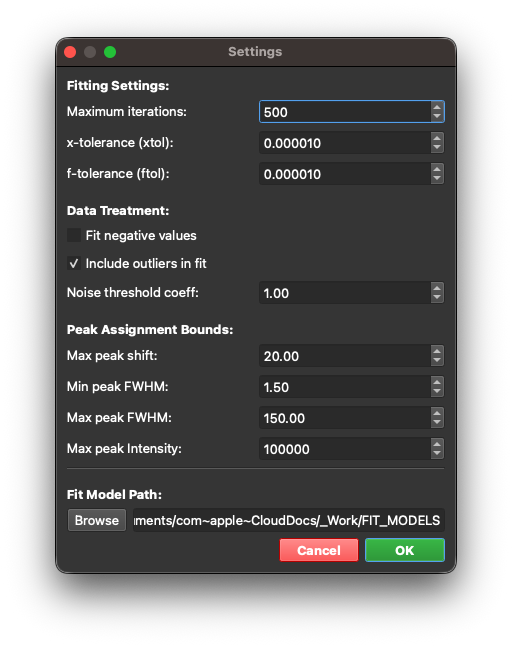
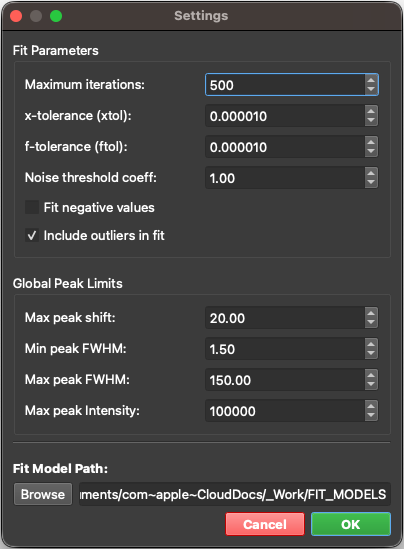
Deployed 440b6f7 with MkDocs version: 1.6.1

diff --git a/user_manual/settings/index.html b/user_manual/settings/index.html
@@ -779,6 +779,45 @@
     </span>
   </a>
   
+    <nav class="md-nav" aria-label="Settings &amp; Preferences">
+      <ul class="md-nav__list">
+        
+          <li class="md-nav__item">
+  <a href="#fit-parameters" class="md-nav__link">
+    <span class="md-ellipsis">
+      
+        Fit Parameters
+      
+    </span>
+  </a>
+  
+</li>
+        
+          <li class="md-nav__item">
+  <a href="#global-peak-limits" class="md-nav__link">
+    <span class="md-ellipsis">
+      
+        Global Peak Limits
+      
+    </span>
+  </a>
+  
+</li>
+        
+          <li class="md-nav__item">
+  <a href="#fit-model-path" class="md-nav__link">
+    <span class="md-ellipsis">
+      
+        Fit Model Path
+      
+    </span>
+  </a>
+  
+</li>
+        
+      </ul>
+    </nav>
+  
 </li>
       
     </ul>
@@ -1142,6 +1181,45 @@
     </span>
   </a>
   
+    <nav class="md-nav" aria-label="Settings &amp; Preferences">
+      <ul class="md-nav__list">
+        
+          <li class="md-nav__item">
+  <a href="#fit-parameters" class="md-nav__link">
+    <span class="md-ellipsis">
+      
+        Fit Parameters
+      
+    </span>
+  </a>
+  
+</li>
+        
+          <li class="md-nav__item">
+  <a href="#global-peak-limits" class="md-nav__link">
+    <span class="md-ellipsis">
+      
+        Global Peak Limits
+      
+    </span>
+  </a>
+  
+</li>
+        
+          <li class="md-nav__item">
+  <a href="#fit-model-path" class="md-nav__link">
+    <span class="md-ellipsis">
+      
+        Fit Model Path
+      
+    </span>
+  </a>
+  
+</li>
+        
+      </ul>
+    </nav>
+  
 </li>
       
     </ul>
@@ -1167,23 +1245,117 @@
   <h1>Settings</h1>
 
 <h2 id="settings-preferences">Settings &amp; Preferences<a class="headerlink" href="#settings-preferences" title="Permanent link">&para;</a></h2>
-<p>You can customize the core behavior of the SPECTROview application by accessing the <strong>Settings</strong> menu via the gear icon in the main toolbar.</p>
+<p>Accessing the <strong>Settings</strong> menu via the gear icon in the main toolbar.</p>
 <div align="center">
-  <img src="../../user_manual_images/Settings/settings.png" alt="Tooltips demonstration" width="420"><br>
+  <img src="../../user_manual_images/settings/settings.png" alt="Settings Panel" width="420"><br>
 </div>
 
 <p><br></p>
-<ul>
-<li>
-<p><strong>Fit Parameters</strong>: Granular control over the mathematical optimization algorithms. You can precisely adjust tolerances (<code>xtol</code>, <code>ftol</code>), cap the maximum number of iterations (<code>max_ite</code>), and define the noise coefficient limit (<code>coef_noise</code>).</p>
-</li>
-<li>
-<p><strong>Global Peak Limits</strong>: Set absolute global boundary conditions for all fitted peaks across the software, including the absolute Minimum FWHM, Maximum FWHM, and Maximum Peak Shift allowed during optimization.</p>
-</li>
-<li>
-<p><strong>Fit Model Path</strong>: Specify the default storage directory for your custom, user-defined mathematical fit models.</p>
-</li>
-</ul>
+<p>The Settings panel is organized into three sections: <strong>Fit Parameters</strong>, <strong>Global Peak Limits</strong>, and <strong>Fit Model Path</strong>.</p>
+<hr />
+<h3 id="fit-parameters">Fit Parameters<a class="headerlink" href="#fit-parameters" title="Permanent link">&para;</a></h3>
+<p>These parameters control the behavior of the <strong>Vectorized Batch Fit (VBF)</strong> engine — the mathematical optimizer that performs curve fitting on your spectra. Adjusting these values directly affects fitting speed, precision, and convergence.</p>
+<table>
+<thead>
+<tr>
+<th>Parameter</th>
+<th>Setting</th>
+<th>Default</th>
+<th>Range</th>
+<th>Description &amp; Behavior</th>
+</tr>
+</thead>
+<tbody>
+<tr>
+<td><strong>Maximum Iterations</strong></td>
+<td><code>max_ite</code></td>
+<td>200</td>
+<td>1 – 10,000</td>
+<td>The max number of Levenberg-Marquardt iterations per spectrum. <br>• <strong>Lower (50-100)</strong>: Faster fitting for previews.<br>• <strong>Higher (200+)</strong>: Better convergence for complex spectra.</td>
+</tr>
+<tr>
+<td><strong>x-tolerance</strong></td>
+<td><code>xtol</code></td>
+<td>1×10⁻⁴</td>
+<td>1×10⁻⁶ – 1×10⁻¹</td>
+<td>Relative tolerance for the parameter step size. Convergence requires: <br> <span class="arithmatex">\(\text{mean}(\vert\delta p\vert/\vert p\vert) &lt; \text{xtol}\)</span></td>
+</tr>
+<tr>
+<td><strong>f-tolerance</strong></td>
+<td><code>ftol</code></td>
+<td>1×10⁻⁴</td>
+<td>1×10⁻⁶ – 1×10⁻¹</td>
+<td>Relative tolerance for the cost function. Convergence requires: <br> <span class="arithmatex">\(\vert\text{cost}_{n} - \text{cost}_{n-1}\vert/\vert\text{cost}_{n}\vert &lt; \text{ftol}\)</span></td>
+</tr>
+<tr>
+<td><strong>Noise Threshold Coefficient</strong></td>
+<td><code>coef_noise</code></td>
+<td>1.0</td>
+<td>0 – 100</td>
+<td>Multiplier for the auto-estimated noise level (<span class="arithmatex">\(\text{coef\_noise} \times \text{estimated\_noise\_amplitude}\)</span>). Masks noisy data and suppresses ghost peaks.<br>• <strong>0</strong>: Disabled<br>• <strong>0.5-1.0</strong>: Conservative<br>• <strong>1.0-2.0</strong>: Moderate (Default)<br>• <strong>3.0+</strong>: Aggressive</td>
+</tr>
+<tr>
+<td><strong>Fit Negative Values</strong></td>
+<td>-</td>
+<td>Unchecked</td>
+<td>-</td>
+<td>When checked, negative intensity values are included in the fit. When unchecked, they are assigned zero weight.</td>
+</tr>
+<tr>
+<td><strong>Include Outliers in Fit</strong></td>
+<td>-</td>
+<td>Unchecked</td>
+<td>-</td>
+<td>When checked, statistical outlier points are included in the fit. When unchecked, they are assigned zero weight.</td>
+</tr>
+</tbody>
+</table>
+<blockquote>
+<p><strong>Note</strong>: A spectrum is considered converged only when <strong>both</strong> <code>xtol</code> and <code>ftol</code> criteria are simultaneously satisfied.</p>
+</blockquote>
+<hr />
+<h3 id="global-peak-limits">Global Peak Limits<a class="headerlink" href="#global-peak-limits" title="Permanent link">&para;</a></h3>
+<p>These parameters define <strong>absolute boundary conditions</strong> that are applied globally to all peaks across the application. When you add a new peak to a fit model, these limits are used to set the initial parameter bounds automatically.</p>
+<table>
+<thead>
+<tr>
+<th>Limit</th>
+<th>Default</th>
+<th>Range</th>
+<th>Description &amp; Constraint</th>
+</tr>
+</thead>
+<tbody>
+<tr>
+<td><strong>Max Peak Shift</strong></td>
+<td>20</td>
+<td>0 – 100</td>
+<td>Maximum allowed displacement of a peak center (<code>x0</code>) from its initial value. <br><span class="arithmatex">\(x_0 - \text{maxshift} \leq x_0^{\text{fitted}} \leq x_0 + \text{maxshift}\)</span></td>
+</tr>
+<tr>
+<td><strong>Min Peak FWHM</strong></td>
+<td>0.1</td>
+<td>0.01 – 500</td>
+<td>Minimum allowed Full Width at Half Maximum (FWHM). Prevents peaks from collapsing into delta-function artifacts.</td>
+</tr>
+<tr>
+<td><strong>Max Peak FWHM</strong></td>
+<td>200</td>
+<td>1 – 1,000</td>
+<td>Maximum allowed FWHM. Prevents peaks from broadening into flat baselines.</td>
+</tr>
+<tr>
+<td><strong>Max Peak Intensity</strong></td>
+<td>100,000</td>
+<td>1 – 1×10⁹</td>
+<td>Upper bound for peak amplitude. Prevents unrealistically high intensity values.</td>
+</tr>
+</tbody>
+</table>
+<hr />
+<h3 id="fit-model-path">Fit Model Path<a class="headerlink" href="#fit-model-path" title="Permanent link">&para;</a></h3>
+<p>Specify the default storage directory for your custom fit models (saved in JSON format). The application will automatically scan this folder and load all available models for easy selection in the Fit Model Builder interface.</p>
+<p>Click <strong>Browse</strong> to select a folder, or type the path directly.</p>
 
 
 

diff --git a/user_manual/menu_bar/index.html b/user_manual/menu_bar/index.html
@@ -684,45 +684,6 @@
     </span>
   </a>
   
-    <nav class="md-nav" aria-label="Quick Calculation Tool">
-      <ul class="md-nav__list">
-        
-          <li class="md-nav__item">
-  <a href="#1-laser-spot-size-depth-of-field-and-laser-power-density" class="md-nav__link">
-    <span class="md-ellipsis">
-      
-        1. Laser Spot Size, Depth of Field, and Laser Power Density
-      
-    </span>
-  </a>
-  
-</li>
-        
-          <li class="md-nav__item">
-  <a href="#2-penetration-depth" class="md-nav__link">
-    <span class="md-ellipsis">
-      
-        2. Penetration Depth
-      
-    </span>
-  </a>
-  
-</li>
-        
-          <li class="md-nav__item">
-  <a href="#3-unit-converter" class="md-nav__link">
-    <span class="md-ellipsis">
-      
-        3. Unit Converter
-      
-    </span>
-  </a>
-  
-</li>
-        
-      </ul>
-    </nav>
-  
 </li>
         
       </ul>
@@ -1276,45 +1237,6 @@
     </span>
   </a>
   
-    <nav class="md-nav" aria-label="Quick Calculation Tool">
-      <ul class="md-nav__list">
-        
-          <li class="md-nav__item">
-  <a href="#1-laser-spot-size-depth-of-field-and-laser-power-density" class="md-nav__link">
-    <span class="md-ellipsis">
-      
-        1. Laser Spot Size, Depth of Field, and Laser Power Density
-      
-    </span>
-  </a>
-  
-</li>
-        
-          <li class="md-nav__item">
-  <a href="#2-penetration-depth" class="md-nav__link">
-    <span class="md-ellipsis">
-      
-        2. Penetration Depth
-      
-    </span>
-  </a>
-  
-</li>
-        
-          <li class="md-nav__item">
-  <a href="#3-unit-converter" class="md-nav__link">
-    <span class="md-ellipsis">
-      
-        3. Unit Converter
-      
-    </span>
-  </a>
-  
-</li>
-        
-      </ul>
-    </nav>
-  
 </li>
         
       </ul>
@@ -1394,13 +1316,9 @@
 </tbody>
 </table>
 <h3 id="settings-panel">Settings Panel<a class="headerlink" href="#settings-panel" title="Permanent link">&para;</a></h3>
-<p>Click the <strong>Settings</strong> icon to open the Settings Panel, where you can:</p>
-<ul>
-<li>Adjust global fitting parameters.</li>
-<li>Define a default folder where all fit models (JSON format) are stored. The application will automatically scan this folder and load all models for easy selection in the fitting interface.</li>
-</ul>
+<p>Click the <strong>Settings</strong> icon to open the Settings Panel. See "Settings and Preferences" section for details.</p>
 <div align="center">
-  <img src="../../user_manual_images/menu_bar/ui_settings.png" alt="Settings Panel UI" width="350"><br>
+  <img src="../../user_manual_images/settings/settings.png" alt="Settings Panel UI" width="400"><br>
    <i>The Settings Panel interface.</i>
 </div>
 
@@ -1413,25 +1331,11 @@
 </div>
 
 <h3 id="quick-calculation-tool">Quick Calculation Tool<a class="headerlink" href="#quick-calculation-tool" title="Permanent link">&para;</a></h3>
-<p>Click the <strong>Calculator</strong> icon to open a suite of utility calculators:</p>
+<p>Click the <strong>Calculator</strong> icon to open a suite of utility calculators. See "Quick Calculators" section for details.</p>
 <div align="center">
   <img src="../../user_manual_images/menu_bar/ui_quick_calculation.png" alt="Quick Calculators UI" width="800"><br>
    <i>The Quick Calculators interface.</i>
 </div>
-
-<h4 id="1-laser-spot-size-depth-of-field-and-laser-power-density">1. Laser Spot Size, Depth of Field, and Laser Power Density<a class="headerlink" href="#1-laser-spot-size-depth-of-field-and-laser-power-density" title="Permanent link">&para;</a></h4>
-<p>This tool estimates the theoretical, diffraction-limited spatial resolution of your optical setup, including the spot size, depth of focus, and laser power density.</p>
-<ul>
-<li><strong>Spot Size</strong>: Calculated as <span class="arithmatex">\(1.22 \times \lambda / \text{NA}\)</span> (<span class="arithmatex">\(\mu\text{m}\)</span>)</li>
-<li><strong>Depth of Focus</strong>: Calculated as <span class="arithmatex">\(4 \times n \times \lambda / \text{NA}^2\)</span> (<span class="arithmatex">\(\mu\text{m}\)</span>)</li>
-</ul>
-<h4 id="2-penetration-depth">2. Penetration Depth<a class="headerlink" href="#2-penetration-depth" title="Permanent link">&para;</a></h4>
-<p>This tool calculates the theoretical optical penetration depth of a laser into a specific material, derived from its complex refractive index (extinction coefficient).</p>
-<ul>
-<li><strong>Penetration Depth (<span class="arithmatex">\(d\)</span>)</strong>: Calculated as <span class="arithmatex">\(\lambda / (4 \pi k)\)</span> (<span class="arithmatex">\(\text{nm}\)</span>)</li>
-</ul>
-<h4 id="3-unit-converter">3. Unit Converter<a class="headerlink" href="#3-unit-converter" title="Permanent link">&para;</a></h4>
-<p>A rapid utility to convert between various standard spectroscopic units, ensuring flawless consistency during data analysis (e.g., converting wavelength in <span class="arithmatex">\(\text{nm}\)</span> to energy in <span class="arithmatex">\(\text{eV}\)</span>, or calculating Raman shift in <span class="arithmatex">\(\text{cm}^{-1}\)</span> from excitation wavelengths).</p>
 
 
 

diff --git a/user_manual/spectra_maps/index.html b/user_manual/spectra_maps/index.html
@@ -1693,7 +1693,8 @@
 </table>
 <hr />
 <h3 id="fit-model-builder">Fit Model Builder<a class="headerlink" href="#fit-model-builder" title="Permanent link">&para;</a></h3>
-<p>The FitModelBuilder tab is where you configure your spectral fitting models. It is divided into three main panels: Fitting, PeakTable, and FitModelControl.</p>
+<p>The FitModelBuilder tab is where you configure your spectral fit models. It is divided into three main panels: Fitting, PeakTable, and FitModelControl that will be explained in the following sections.</p>
+<p>You can use global fitting parameters or adjust fitting parameters in the Settings Panel (see "Settings and Preferences" section for details).</p>
 <div align="center">
   <img src="../../user_manual_images/Spectra_Maps/fit_model_builder.png" alt="Fit Model Builder UI" width="800">
 </div>